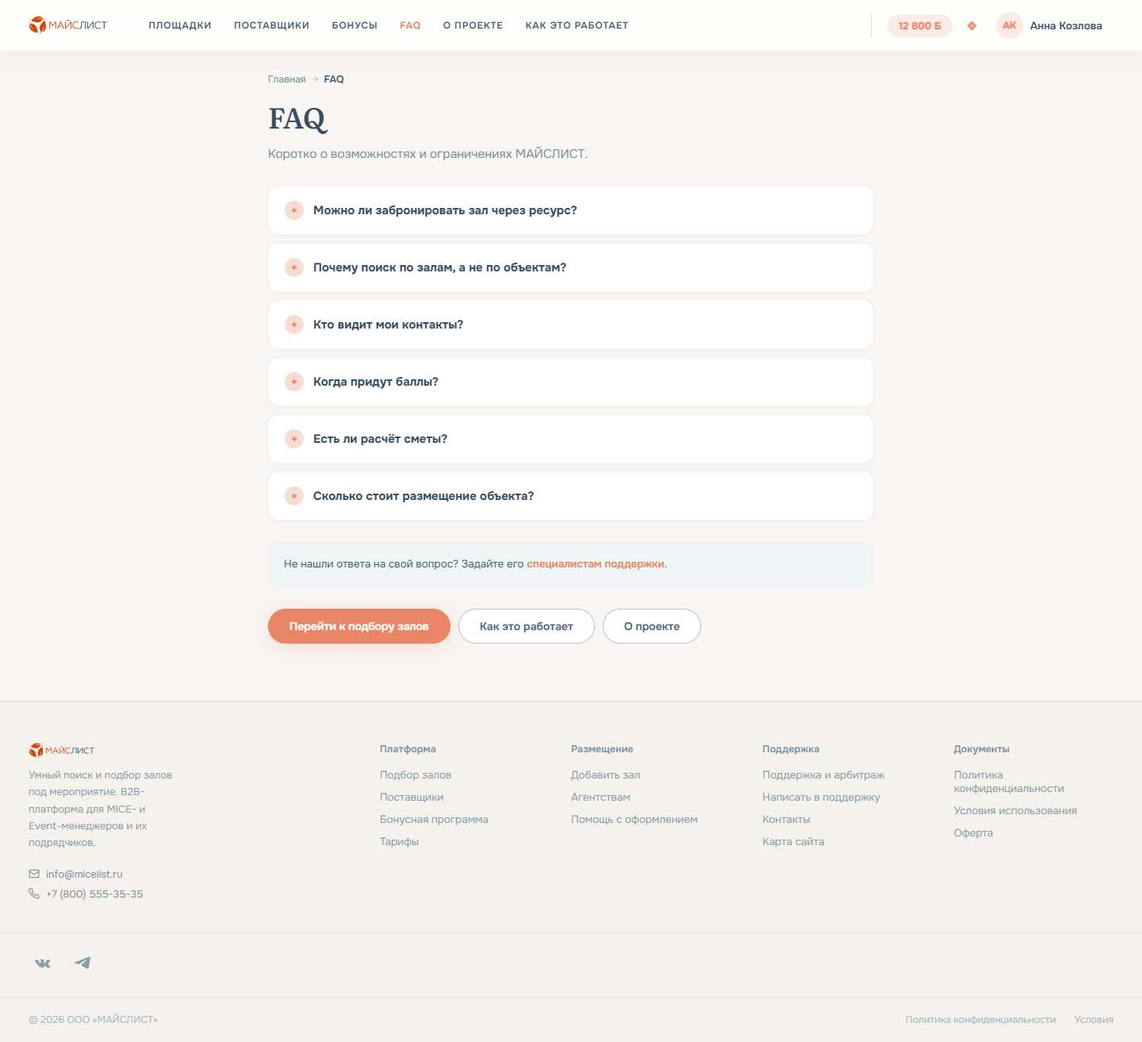
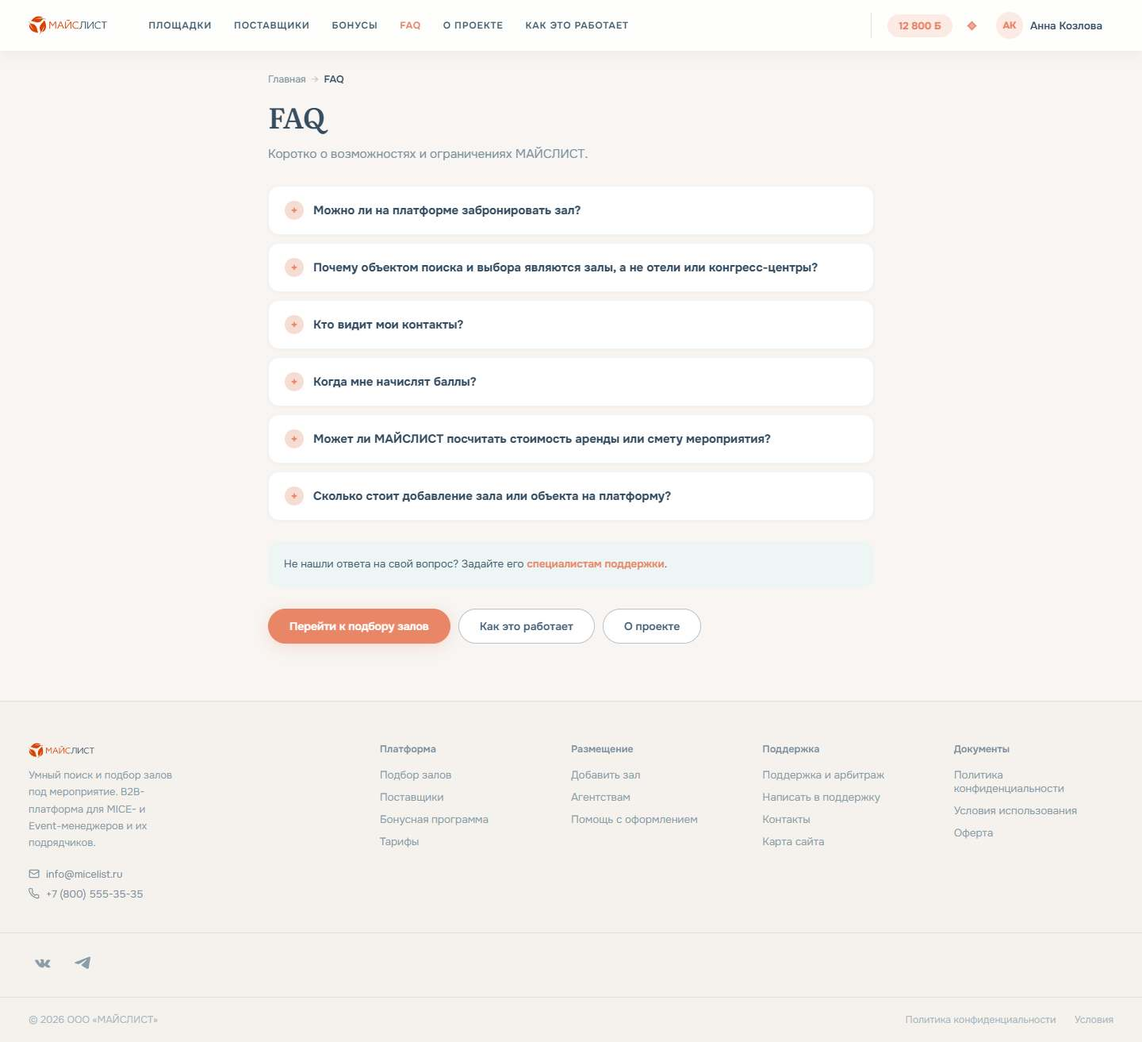
Тексты: визуальная редактура контент-менеджера, дополнение пересобрано
- about, how, faq, support, окно запроса в сравнении — по файлу
  «ТЕКСТЫ САЙТА — после визуальной редактуры»
- how: шаги переписаны под новый порядок, ссылка о баллах под подписью
- compare: подписи полей «Даты и время проведения», «Количество участников»
- дополнение: убраны пункты, уже поправленные визуально (299 → 287 строк)
- TEXTS_REPORT: раунд 3

diff --git a/app/how.html b/app/how.html
@@ -80,38 +80,38 @@ h1{font-family:'Literata',Georgia,serif;font-size:36px;font-weight:600;color:var
 
   <h1>Как это работает</h1>
   <p class="lead">Семь простых шагов: от подбора зала по параметрам мероприятия до начисления бонусных баллов
-  за реализованный проект. Общение и достижение договорённостей происходят между пользователями с обеих сторон — платформа никак их не контролирует.</p>
+  за реализованный проект. Переговоры происходят между сторонами напрямую — платформа никак их не контролирует.</p>
 
   <div class="steps">
     <div class="step">
       <div class="step-n">01</div>
       <div class="step-b">
-        <div class="step-t">Открываете подбор залов</div>
-        <div class="step-d">Задайте параметры мероприятия: МАЙСЛИСТ подберёт залы, совпадающие с вашими требованиями. Учитываются местонахождение, инфраструктура и номерной фонд объекта, вместимость, оборудование и пр.</div>
+        <div class="step-t">Поиск и подбор залов</div>
+        <div class="step-d">Задайте характеристики мероприятия: МАЙСЛИСТ подберёт залы, совпадающие с вашими требованиями. Учитываются местонахождение, инфраструктура и номерной фонд объекта, вместимость, оборудование и пр.</div>
         <a class="step-link" href="search.html">Перейти к подбору залов →</a>
       </div>
     </div>
     <div class="step">
       <div class="step-n">02</div>
       <div class="step-b">
-        <div class="step-t">Включаете нужные фильтры</div>
-        <div class="step-d">Выдача перестраивается на лету, на карте остаются только подходящие объекты.
-        Рядом с каждым фильтром — счётчик, указывающий, сколько объектов попадает под это условие.
+        <div class="step-t">Фильтры</div>
+        <div class="step-d">Включите нужные фильтры — выдача перестраивается, в ней остаются только объекты по тому или иному критерию.
+        Рядом с каждым — счётчик, указывающий, сколько залов ему соответствует.
         Перечень доступных фильтров зависит от вашего тарифа.</div>
       </div>
     </div>
     <div class="step">
       <div class="step-n">03</div>
       <div class="step-b">
-        <div class="step-t">Отмечаете залы</div>
+        <div class="step-t">Выбор залов</div>
         <div class="step-d">Добавьте залы в список сравнения или в избранное.
-        Лимит залов в сравнении зависит от тарифа.</div>
+        Максимальное количество залов в сравнительной таблице зависит от тарифа.</div>
       </div>
     </div>
     <div class="step">
       <div class="step-n">04</div>
       <div class="step-b">
-        <div class="step-t">Сравниваете</div>
+        <div class="step-t">Сравнение</div>
         <div class="step-d">Все выбранные залы представлены в одной структурированной таблице. Сравните площадь и высоту потолков,
         вместимость при разных схемах рассадки, номерной фонд, рейтинг объекта и многое другое.</div>
         <a class="step-link" href="compare.html">Открыть сравнение →</a>
@@ -120,31 +120,31 @@ h1{font-family:'Literata',Georgia,serif;font-size:36px;font-weight:600;color:var
     <div class="step">
       <div class="step-n">05</div>
       <div class="step-b">
-        <div class="step-t">Отправляете запрос или выгружаете презентацию</div>
-        <div class="step-d">Отправьте групповой запрос менеджерам каждого из выбранных залов
-        или скачайте презентацию отобранных залов для заказчика.</div>
+        <div class="step-t">Рассылка запроса</div>
+        <div class="step-d">Выбрав «Отправить запрос», вы указываете даты, количество посетителей и в свободной форме описываете мероприятие.
+        Ваш запрос будет направлен менеджерам всех объектов, залы которых находятся в списке сравнения.</div>
       </div>
     </div>
     <div class="step">
       <div class="step-n">06</div>
       <div class="step-b">
-        <div class="step-t">Обсуждаете условия в переписке</div>
-        <div class="step-d">Менеджеры объектов получат запрос и ответят вам по электронной почте. Платформа передаёт только ваш адрес электронной почты — никаких других личных данных.</div>
+        <div class="step-t">Выгрузка презентации</div>
+        <div class="step-d">Нажмите «Сформировать презентацию» и скачайте аккуратно оформленный PDF, в котором структурированно представлена информация о выбранных залах.</div>
       </div>
     </div>
     <div class="step">
       <div class="step-n">07</div>
       <div class="step-b">
-        <div class="step-t">Когда мероприятие состоялось</div>
-        <div class="step-d">Отметьте мероприятие как состоявшееся.
-        После такого же подтверждения со стороны объекта вам будут начислены бонусные баллы, которые в дальнейшем можно
-        потратить на товары и услуги поставщиков.</div>
-        <a class="step-link" href="bonus.html">Как работают баллы →</a>
+        <div class="step-t">Обсуждение условий и бронирование</div>
+        <div class="step-d">Менеджеры объектов получат запрос и ответят вам по электронной почте. Условия проведения мероприятия
+        и аренды площадки вы обсуждаете напрямую. Платформа передаёт только ваш электронный адрес — никаких других личных данных.
+        Договор вы также заключаете без участия МАЙСЛИСТ.</div>
       </div>
     </div>
   </div>
 
-  <div class="note">До тех пор, пока обе стороны не отметили мероприятие как состоявшееся, начисленные за него баллы <b>недоступны для использования</b>. Если сведения сторон расходятся, обратитесь в <a href="#" onclick="MH.feedback();return false;" style="color:var(--coral);font-weight:600">поддержку</a>.</div>
+  <div class="note">После того как ваше мероприятие состоялось, вам начисляются баллы. Они остаются <b>недоступными для использования</b>, пока обе стороны не отметят мероприятие как состоявшееся. Если одна из сторон не подтверждает факт проведения мероприятия или сведения сторон расходятся, обратитесь в <a href="#" onclick="MH.feedback();return false;" style="color:var(--coral);font-weight:600">поддержку</a>.
+    <br><a class="step-link" href="bonus.html">Больше о том, как работают баллы →</a></div>
 
   <div class="cta">
     <a class="btn pri" href="search.html">Перейти к подбору залов</a>

diff --git a/app/about.html b/app/about.html
@@ -92,34 +92,34 @@ h2{font-family:'Literata',Georgia,serif;font-size:24px;font-weight:600;color:var
   <div class="crumbs"><a href="homepage.html">Главная</a><span class="sep">→</span><span class="cur">О проекте</span></div>
 
   <h1>Платформа подбора залов под мероприятие</h1>
-  <p class="lead">МАЙСЛИСТ — платформа для профессионального подбора залов для мероприятий и поставщиков для их проведения. Здесь можно подобрать и сравнить залы и объекты, которым они принадлежат, отправить групповой запрос их менеджерам, подготовить презентацию для заказчика. Условия, смету
+  <p class="lead">МАЙСЛИСТ позволяет подобрать и сравнить залы и объекты, которым они принадлежат, отправить групповой запрос их менеджерам, подготовить презентацию для заказчика. Условия, смету
   и бронирование стороны обсуждают напрямую, вне платформы.</p>
 
   <h2>Чем удобен МАЙСЛИСТ</h2>
   <div class="feats">
     <div class="feat"><b>Единая структура данных о тысячах залов</b>
-      <span>Каждый объект описан по одной схеме: залы, площади, схемы рассадки, оснащение, условия.
-      Не нужно вычитывать сайты и сводить разнородные презентации.</span></div>
+      <span>Описание составлено по шаблону: характеристики зала, площадь, схема рассадки, оснащение, условия.
+      Вам не придется больше изучать сайты площадок и сводить воедино информацию из презентаций.</span></div>
     <div class="feat"><b>Удобное сравнение залов и объектов</b>
-      <span>Залы ищутся независимо от объектов и сравниваются в одной таблице по значимым параметрам.</span></div>
+      <span>Залы можно сопоставлять между собой по значимым параметрам и характеристикам, независимо от объектов, в которых они находятся.</span></div>
     <div class="feat"><b>Групповой запрос в отделы продаж</b>
-      <span>Один запрос уходит сразу во все выбранные объекты — не нужно писать каждому отдельно.</span></div>
-    <div class="feat"><b>Выгрузка подборки в виде презентации (PDF)</b>
-      <span>По отобранным залам собирается документ, который можно отдать заказчику.</span></div>
+      <span>Время, дата и описание мероприятия направляются менеджерам всех выбранных объектов сразу. Остается дождаться их предложений.</span></div>
+    <div class="feat"><b>Выгрузка подборки в виде презентации</b>
+      <span>Компактный PDF с подробной информацией о выбранных залах можно скачать в один клик и отправить заказчику.</span></div>
     <div class="feat"><b>Начисление баллов за состоявшиеся мероприятия</b>
-      <span>Часть агентского вознаграждения возвращается баллами за состоявшиеся мероприятия и отзывы.</span></div>
+      <span>Часть агентского вознаграждения возвращается пользователям баллами. Баллы также начисляются за отзывы о залах, объектах и подрядчиках.</span></div>
   </div>
 
   <h2>Что происходит вне платформы</h2>
   <div class="nots">
     <div class="not"><span class="not-x" aria-hidden="true"><svg width="12" height="12" viewBox="0 0 24 24" fill="none" stroke="currentColor" stroke-width="2.4" stroke-linecap="round" stroke-linejoin="round"><path d="M7 17 17 7"/><path d="M8 7h9v9"/></svg></span><div>
       <b>Бронирование и заключение договора</b>
-      <span>Бронирование и договор идут напрямую между вами и объектом. Ресурс не участвует
+      <span>Вы договариваетесь напрямую с площадкой. МАЙСЛИСТ не участвует
       в переписке и не выступает стороной сделки.</span></div></div>
     <div class="not"><span class="not-x" aria-hidden="true"><svg width="12" height="12" viewBox="0 0 24 24" fill="none" stroke="currentColor" stroke-width="2.4" stroke-linecap="round" stroke-linejoin="round"><path d="M7 17 17 7"/><path d="M8 7h9v9"/></svg></span><div>
       <b>Расчёт и согласование сметы</b>
-      <span>Калькулятора услуг и смет не предусмотрено. Подтверждающих документов и смет
-      ресурс не получает ни от пользователя, ни от объектов.</span></div></div>
+      <span>Калькулятора услуг и смет не предусмотрено. Никаких финансовых документов
+      ресурс не получает ни от пользователя, ни от объекта.</span></div></div>
     <!-- REMOVED BY CLIENT: пункт «Не передаёт контакты пользователей»
     <div class="not"><span class="not-x" aria-hidden="true"><svg width="12" height="12" viewBox="0 0 24 24" fill="none" stroke="currentColor" stroke-width="2.4" stroke-linecap="round" stroke-linejoin="round"><path d="M7 17 17 7"/><path d="M8 7h9v9"/></svg></span><div>
       <b>Не передаёт контакты пользователей</b>

diff --git a/app/faq.html b/app/faq.html
@@ -95,27 +95,29 @@ function items(){
   const fees = ML.FEE_TIERS.filter(t => t.fee)
     .map(t => `${ML.money(t.fee)} за ${t.label.toLowerCase()}`).join(', ');
   return [
-    { q: 'Можно ли забронировать зал через ресурс?',
+    { q: 'Можно ли на платформе забронировать зал?',
       a: 'МАЙСЛИСТ помогает подобрать и сравнить залы, подготовить презентацию и отправить запрос. '
-       + 'Бронирование, согласование сметы и договор оформляются вне платформы.' },
-    { q: 'Почему поиск по залам, а не по объектам?',
-      a: 'Под техническое задание мероприятия подбирается конкретный зал: учитываются его площадь, '
-       + 'высота потолка и вместимость при нужной схеме рассадки. Залы группируются по объектам, '
-       + 'но ищутся независимо от них — поэтому в выдачу попадает зал, а объект показан как контейнер.' },
+       + 'Бронирование зала, согласование сметы и заключение договора происходят вне платформы.' },
+    { q: 'Почему объектом поиска и выбора являются залы, а не отели или конгресс-центры?',
+      a: 'Организаторам важнее всего найти подходящий зал нужной площади и вместимости, с необходимым оснащением '
+       + 'и характеристиками. Тип и назначение здания, где он расположен, тоже имеют значение, но не первостепенное. '
+       + 'Поэтому залы ищутся независимо от объектов, в которых находятся, хотя при выдаче сгруппированы, чтобы было '
+       + 'понятно их соседство. При этом в поиске, конечно, можно учитывать и локацию, и некоторые существенные '
+       + 'характеристики объекта.' },
     { q: 'Кто видит мои контакты?',
       a: 'Менеджер объекта или поставщик получает имя пользователя и общие сведения о мероприятии. '
        + 'В течение установленного времени (от одного часа в рабочие дни — в зависимости от обязательств, '
        + 'взятых на себя объектом или поставщиком) пользователю приходит либо ответ на запрос, либо отказ '
-       + 'в проведении мероприятия. Вся коммуникация осуществляется по электронной почте, никакие личные '
+       + 'в проведении мероприятия. Вся коммуникация осуществляется по электронной почте, никакие другие личные '
        + 'контакты автоматически не передаются.' },
-    { q: 'Когда придут баллы?',
+    { q: 'Когда мне начислят баллы?',
       a: 'После того как и пользователь, и объект отметили мероприятие как состоявшееся, вам начисляются '
        + 'бонусные баллы. Условия их использования подробно изложены на <a href="bonus.html">странице бонусной программы</a>.' },
-    { q: 'Есть ли расчёт сметы?',
+    { q: 'Может ли МАЙСЛИСТ посчитать стоимость аренды или смету мероприятия?',
       a: 'МАЙСЛИСТ не обеспечивает и не гарантирует бронирование залов. МАЙСЛИСТ не рассчитывает смету '
        + 'аренды или проведения мероприятия. Стоимость и условия аренды и других услуг обсуждаются с менеджером '
        + 'объекта напрямую, в устраивающих каждую сторону каналах коммуникации.' },
-    { q: 'Сколько стоит размещение объекта?',
+    { q: 'Сколько стоит добавление зала или объекта на платформу?',
       a: 'Размещение информации о залах и объектах на МАЙСЛИСТ — бесплатно. Менеджмент объекта платит '
        + 'фиксированную сумму только за состоявшееся мероприятие, запрос на которое пришёл через платформу. '
        + 'Размер такого платежа рассчитывается исходя из минимального количества участников и не превышает '

diff --git a/app/compare.html b/app/compare.html
@@ -197,6 +197,7 @@ button{font-family:inherit;cursor:pointer;}
 .fl{display:block;font-size:11px;font-weight:600;text-transform:uppercase;letter-spacing:.07em;color:var(--slate-muted);margin:16px 0 7px;}
 .fl:first-child{margin-top:0;}
 .row2{display:grid;grid-template-columns:1fr 1fr;gap:10px;}
+.fl-sub{display:block;font-size:12px;color:var(--slate-muted);margin:0 0 5px;}
 .fi{
   width:100%;padding:10px 14px;border-radius:var(--r-sm);
   border:1.5px solid rgba(197,227,225,.5);background:var(--bg);
@@ -509,16 +510,18 @@ function openRequest() {
   }
 
   modal('Групповой запрос', `
-    <label class="fl">Запрос уйдёт в отделы продаж</label>
+    <label class="fl">Будет направлен в отделы продаж следующих объектов</label>
     <div class="obj-list">${objs.map(o => `<div class="obj">
       <b>${esc(o.venue.name)}</b>
       <span>${o.halls.map(h => esc(h.name)).join(', ')}</span>
     </div>`).join('')}</div>
 
-    <label class="fl">Параметры мероприятия</label>
+    <label class="fl">Детали</label>
     <div class="row2">
-      <input class="fi" id="rqDates" value="14–16.10.2026" placeholder="Даты">
-      <input class="fi" id="rqGuests" type="number" min="1" value="120" placeholder="Человек">
+      <div><label class="fl-sub" for="rqDates">Даты и время проведения</label>
+        <input class="fi" id="rqDates" value="14–16.10.2026" placeholder="Даты"></div>
+      <div><label class="fl-sub" for="rqGuests">Количество участников</label>
+        <input class="fi" id="rqGuests" type="number" min="1" value="120" placeholder="Человек"></div>
     </div>
 
     <label class="fl">Сопроводительное письмо</label>

diff --git a/app/support.html b/app/support.html
@@ -201,7 +201,7 @@ function render(){
       <div class="panel">
         <h3>Другие способы</h3>
         <p>Почта: <a href="mailto:info@micelist.ru">info@micelist.ru</a><br>
-        Телефон: <a href="tel:+78005553535">+7 (800) 555-35-35</a></p>
+        Телефоны: <a href="tel:+79166704905">+79166704905</a> (Алексей), <a href="tel:+79251751570">+79251751570</a> (Денис)</p>
         <p>Ответы на частые вопросы: <a href="faq.html">FAQ</a>.</p>
       </div>
     </aside>

diff --git a/TEXTS_REPORT.md b/TEXTS_REPORT.md
@@ -11,6 +11,40 @@
 
 ---
 
+## Раунд 3: визуальная редактура
+
+Источник: `ТЕКСТЫ_САЙТА_—_после_визуальной_редактуры.md`. Контент-менеджер сделал его поверх корректуры, ещё до файла `ТЕКСТЫ САЙТА — дополнение.md`. От корректуры он отличается в 65 строках, все перенесены на сайт.
+
+| Страница | Что изменено |
+|---|---|
+| О проекте | первый абзац; новые пояснения ко всем пяти пунктам «Что даёт платформа»; «(PDF)» убрано из заголовка про презентацию; два пояснения в блоке «Что происходит вне платформы» |
+| Как это работает | первый абзац; заголовки всех семи шагов и описания шагов 1–3 и 5–7; подпись под шагами о баллах |
+| FAQ | все шесть вопросов; ответы 1 и 2 полностью, в ответе 3 добавлено «другие» |
+| Поддержка | телефон 8-800 заменён двумя номерами (Алексей, Денис), оба кликабельны |
+| Сравнение, окно «Отправить запрос» | «Запрос уйдёт…» → «Будет направлен в отделы продаж следующих объектов»; «Параметры мероприятия» → «Детали» |
+
+**Что потребовало решений по вёрстке**
+
+- **«Как это работает».** Шаги переписаны под новый порядок: 5 — рассылка запроса, 6 — выгрузка презентации, 7 — обсуждение условий и бронирование. Шага «Когда мероприятие состоялось» теперь нет. Его ссылка «Как работают баллы →» переехала под подпись о баллах с текстом из файла: «Больше о том, как работают баллы →».
+- **Окно запроса в сравнении.** Над полями даты и количества участников появились подписи «Даты и время проведения» и «Количество участников». Для них добавлен класс `.fl-sub` (мелкий серый текст). На мобильном поля идут друг под другом.
+
+**Мелкие правки при переносе**
+
+- Шаг 2: убраны двойной пробел и запятая в «по тому, или иному критерию».
+- Телефоны оформлены через запятую, как и остальные контакты на странице.
+
+**Не изменено — на заметку**
+
+- Номер 8-800 по-прежнему стоит в подвале сайта (`app/shared.js`) и на странице «Помощь с оформлением» (`app/listing-help.html`). В файле контентщика этих мест нет. Единого источника контактов в коде тоже нет (вопрос из комментария в файле контентщика): каждое место правится отдельно.
+- Слово «ресурс» осталось в тексте контентщика: «О проекте» → «…ресурс не получает ни от пользователя, ни от объекта». Вставлено как есть.
+- Новых комментариев и вопросов в файле нет, все пометки остались от корректуры.
+
+**Дополнение пересобрано.** В `ТЕКСТЫ САЙТА — дополнение.md` теперь 287 строк вместо 299. Убрано всё, что контентщик уже поправил визуально: 6 пояснений на «О проекте», 5 вопросов FAQ и ссылка о баллах на «Как это работает». Вопрос «Сколько стоит размещение объекта?» в дополнении не значился.
+
+**Проверка.** Синтаксис JS в норме, `npm test` — 12 из 12. Playwright, 24 страницы × 2 ширины: ошибок в консоли нет, новых вылетов текста по сравнению с прошлым прогоном нет. Скриншоты в `texts-screens/` обновлены.
+
+---
+
 ## Раунд 2: решения клиента и доработки
 
 В этом раунде по решениям клиента менялись не только тексты, но и данные, логика, разметка и стили. Всё перечислено ниже.

diff --git a/ТЕКСТЫ САЙТА — дополнение.md b/ТЕКСТЫ САЙТА — дополнение.md
@@ -1,8 +1,8 @@
 # МАЙСЛИСТ · Дополнение к выгрузке текстов
 
-В выгрузку от 6 августа (`ТЕКСТЫ САЙТА.md`) попали не все тексты сайта. Здесь — то, чего в ней не было: вопросы FAQ, пояснения в карточках, окна после отправки форм, уведомления, подписи кнопок и подсказки в полях. Тексты, которые уже есть в выгрузке или в корректуре от 23 сентября, сюда не повторяются.
+В выгрузку от 6 августа (`ТЕКСТЫ САЙТА.md`) попали не все тексты сайта. Здесь — то, чего в ней не было: вопросы FAQ, пояснения в карточках, окна после отправки форм, уведомления, подписи кнопок и подсказки в полях. Тексты, которые уже есть в выгрузке, в корректуре от 23 сентября или в файле «ТЕКСТЫ САЙТА — после визуальной редактуры», сюда не повторяются.
 
-Версия: 1 октября 2026, по текущей версии сайта с корректурой.
+Версия 2: 1 октября 2026. Тексты из визуальной редактуры перенесены на сайт; то, что в ней уже поправлено (пояснения на «О проекте», вопросы FAQ, ссылка о баллах на «Как это работает»), из дополнения убрано.
 
 **Как править.** Правьте текст по месту. Пометки в квадратных скобках — `[кнопка]`, `[окно]`, `[уведомление]` — показывают, где строка встречается; их менять не нужно.
 
@@ -22,9 +22,7 @@
 
 - [Общие элементы: окно «Написать нам»](#common)
 - [Главная](#homepage)
-- [О проекте](#about)
 - [Как это работает](#how)
-- [Вопросы и ответы](#faq)
 - [Оформление подписки](#checkout)
 - [Поддержка и арбитраж](#support)
 - [Вход и регистрация](#auth)
@@ -91,30 +89,6 @@ _Файл: `app/homepage.html`_
 
 ---
 
-<a id="about"></a>
-
-# О проекте
-
-**Ссылка:** https://mirlist.vercel.app/app/about.html
-
-_Файл: `app/about.html`_
-
-## На странице
-
-[текст] Каждый объект описан по одной схеме: залы, площади, схемы рассадки, оснащение, условия. Не нужно вычитывать сайты и сводить разнородные презентации.
-
-[текст] Залы ищутся независимо от объектов и сравниваются в одной таблице по значимым параметрам.
-
-[текст] Один запрос уходит сразу во все выбранные объекты — не нужно писать каждому отдельно.
-
-[текст] По отобранным залам собирается документ, который можно отдать заказчику.
-
-[текст] Бронирование и договор идут напрямую между вами и объектом. Ресурс не участвует в переписке и не выступает стороной сделки.
-
-[текст] Калькулятора услуг и смет не предусмотрено. Подтверждающих документов и смет ресурс не получает ни от пользователя, ни от объектов.
-
----
-
 <a id="how"></a>
 
 # Как это работает
@@ -128,30 +102,6 @@ _Файл: `app/how.html`_
 [текст] [новая версия] Перейти к подбору залов →
 
 [текст] Открыть сравнение →
-
-[текст] Как работают баллы →
-
----
-
-<a id="faq"></a>
-
-# Вопросы и ответы
-
-**Ссылка:** https://mirlist.vercel.app/app/faq.html
-
-_Файл: `app/faq.html`_
-
-## На странице
-
-[вопрос] Можно ли забронировать зал через ресурс?
-
-[вопрос] Почему поиск по залам, а не по объектам?
-
-[вопрос] Кто видит мои контакты?
-
-[вопрос] Когда придут баллы?
-
-[вопрос] Есть ли расчёт сметы?
 
 ---
 
